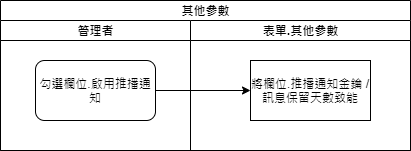
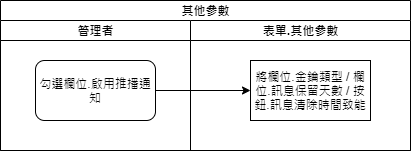
其他參數增加開啟畫面、設定訊息清除時間

Changed region(s): [[0.6131, 0.4503, 0.9051, 0.7417]]

diff --git a/8.10.0/UPDATE/ITEM_2/RTE/otherparameter.md b/8.10.0/UPDATE/ITEM_2/RTE/otherparameter.md
@@ -14,6 +14,7 @@
     * 增加欄位.啟用推播通知，表示Site是否可啟用推播通知功能，未勾選時表示所有推播通知功能都禁止執行，推播通知相關設定欄位都除能。
     * 增加欄位.推播通知金鑰類型，表示推播通知使用的API金鑰類型，設定為預設表示MAE預設值，設定為自訂時表示因客戶需求有客製MAE，需另行申請API金鑰。
     * 增加欄位.推播通知金鑰，表示自訂發送推播通知時的API金鑰內容值。
+    * 增加欄位.推播通知訊息清除時間，表示推播通知紀錄清除排程的啟動時間，不可輸入，僅可點擊按鈕進行時段挑選。
     * 增加欄位.推播通知訊息保留天數，表示推播通知紀錄自發送日期起算多久會被系統排程刪除。僅能輸入數字，不可空白，不可輸入小於0的數字，若為0則不執行清除訊息，欄位預設值為30。
 * 表單畫面
 
@@ -23,9 +24,12 @@
         * 勾選時
             * 欄位.金鑰類型致能，選項設定為預設金鑰。
             * 欄位.訊息保留天數致能，設定預設值30。
+            * 按鈕.清除訊息時間致能。
         * 未勾選時
             * 欄位.金鑰類型除能，選項設定為預設金鑰。
             * 欄位.訊息保留天數除能，清空欄位值。
+            * 按鈕.清除訊息時間除能。
+    * 欄位.清除訊息時間 : 不可輸入，僅能點擊按鈕挑選時段。表示清除訊息的系統排程啟動時間。
     * 欄位.訊息保留天數 : 推播通知的保留天數，自發送日期起算，每日系統排程會將超過保留天數的推播通知以及相關超連結資料刪除。
         * 僅能輸入數字。
         * 不可輸入小於0的數字，若為0則不執行清除訊息。
@@ -39,18 +43,24 @@
         * 若欄位.金鑰類型為自訂金鑰，則欄位.推播通知金鑰不可空白。
 
 * 作業流程
+    * 開啟畫面
+
+    ![Alt otherparameter_sa6](./img/otherparameter_sa6.png)
     * 啟用推播通知
 
-    ![Alt otherparameter_sa1](./img/otherparameter_sa2.png)
+    ![Alt otherparameter_sa2](./img/otherparameter_sa2.png)
     * 停用推播通知
 
-    ![Alt otherparameter_sa1](./img/otherparameter_sa3.png)
+    ![Alt otherparameter_sa3](./img/otherparameter_sa3.png)
+    * 挑選清除訊息時間
+
+    ![Alt otherparameter_sa7](./img/otherparameter_sa7.png)
     * 使用預設金鑰
 
-    ![Alt otherparameter_sa1](./img/otherparameter_sa4.png)
+    ![Alt otherparameter_sa4](./img/otherparameter_sa4.png)
     * 使用自訂金鑰
 
-    ![Alt otherparameter_sa1](./img/otherparameter_sa5.png)
+    ![Alt otherparameter_sa5](./img/otherparameter_sa5.png)
     * 儲存
 
     ![Alt otherparameter_sa1](./img/otherparameter_sa1.png)
